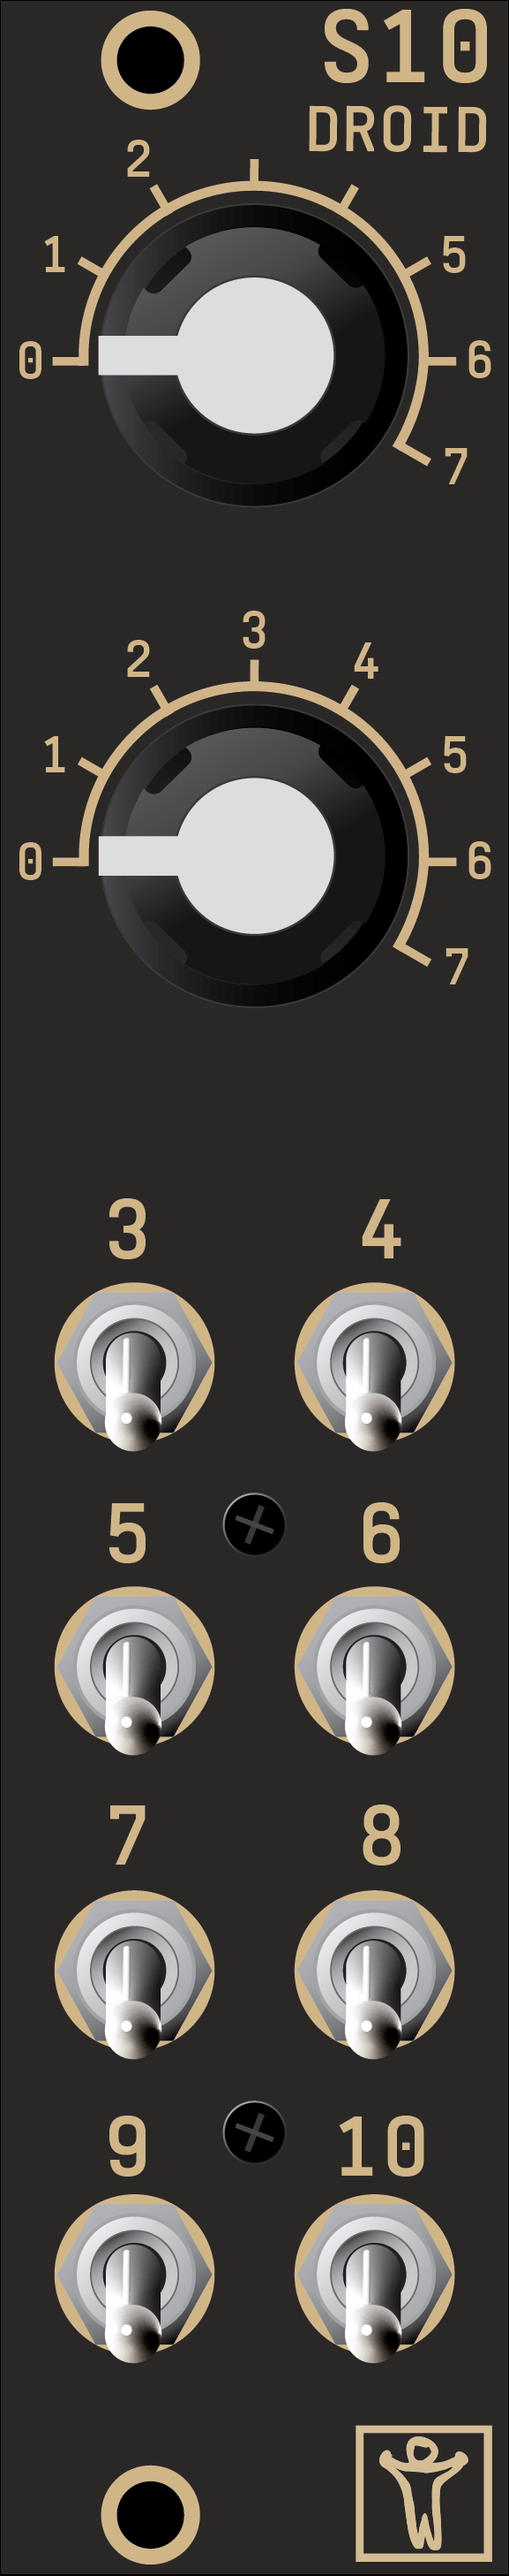
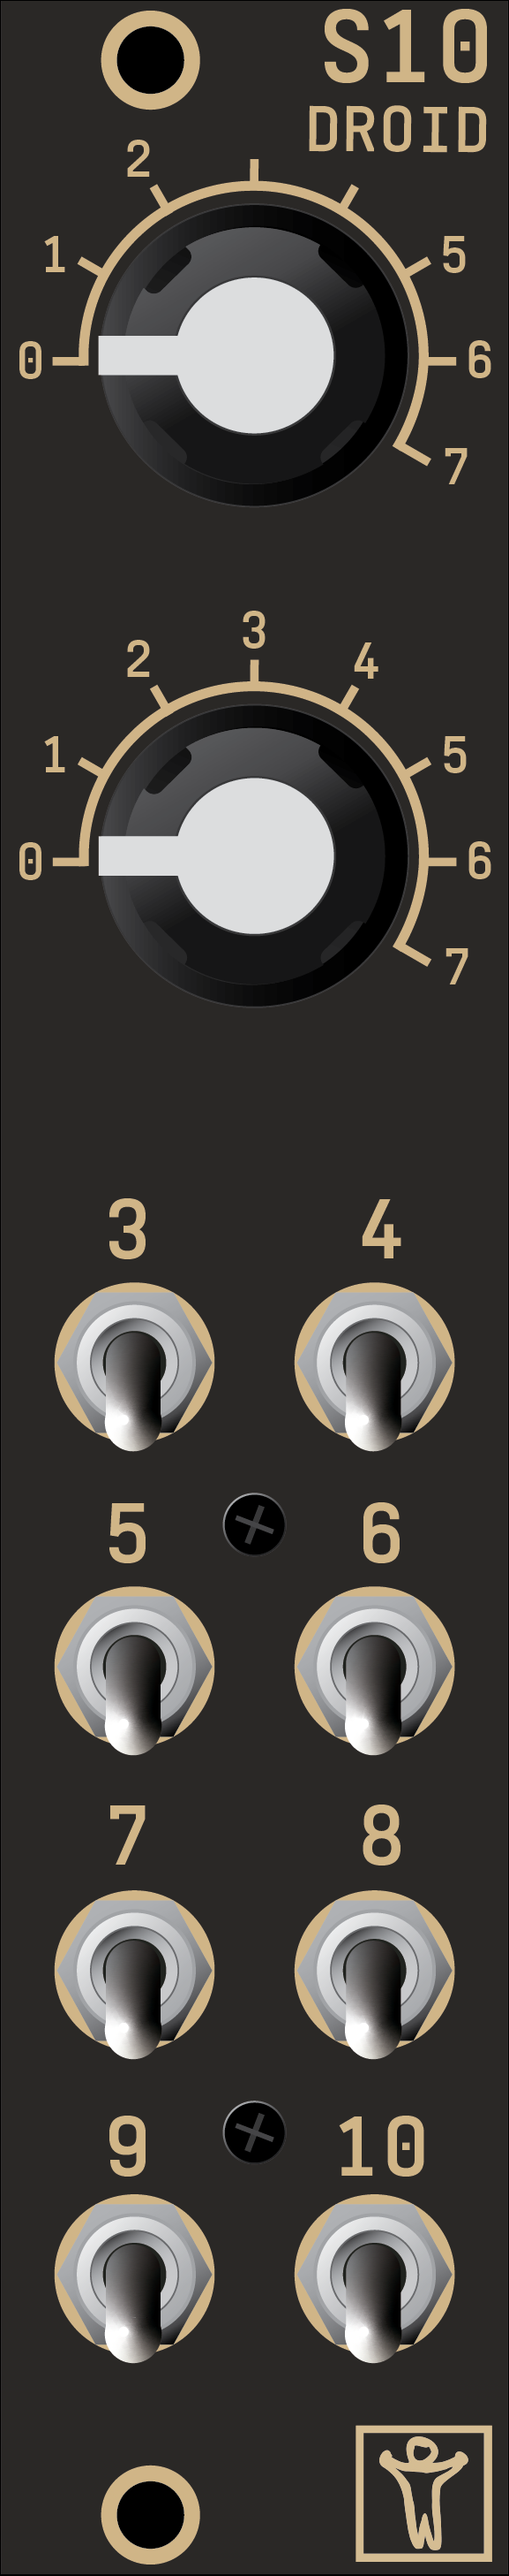
Platzierung der Register gefixt

diff --git a/droidforge/main/tuning.h b/droidforge/main/tuning.h
@@ -61,7 +61,7 @@
 // Rack view
 #define RACV_SPLITTER_HANDLE_WIDTH           12
 #define RACV_MIN_HEIGHT                      100
-#define RACV_MAX_HEIGHT                      400
+#define RACV_MAX_HEIGHT                      1000
 #define RACV_NORMAL_HEIGHT                   220
 #define RACV_PIXEL_PER_HP                    87
 #define RACV_CONTROLLER_GAP                  (2 * RACV_PIXEL_PER_HP)
@@ -73,12 +73,12 @@
 #define RACV_REGMARKER_PEN_STYLE             Qt::DotLine
 
 #define CONTROL_LARGE_POT_SIZE               4.1
-#define CONTROL_SMALL_POT_SIZE               1.4
+#define CONTROL_SMALL_POT_SIZE               1.5
 #define CONTROL_BUTTON_SIZE                  2.7
 #define CONTROL_SMALL_SWITCH_SIZE            2.0
 #define CONTROL_M4_FADER_SIZE                3.0
 #define CONTROL_M4_TOUCH_SIZE                2.2
-#define CONTROL_RGBLED_SIZE                  1.6
+#define CONTROL_RGBLED_SIZE                  2.1
 #define CONTROL_JACK_SIZE                    2.5
 #define CONTROL_EXTRA_SIZE                   7.8
 

diff --git a/droidforge/rackview/rackview.cpp b/droidforge/rackview/rackview.cpp
@@ -204,8 +204,9 @@ void RackView::askRemoveController(int controllerIndex)
 }
 void RackView::removeController(int controllerIndex)
 {
+    QString name = patch->controller(controllerIndex).toUpper();
     patch->removeController(controllerIndex);
-    patch->commit(tr("removing %1 controller").arg(patch->controller(controllerIndex).toUpper()));
+    patch->commit(tr("removing %1 controller").arg(name));
     emit patchModified();
 }
 
@@ -475,7 +476,7 @@ void RackView::openMenuOnItem(QGraphicsItem *item)
     if (item->data(DATA_INDEX_REGISTER_NAME).isValid())
         areg = item->data(DATA_INDEX_REGISTER_NAME).toString();
 
-    popupControllerContextMenu(index, item->data(DATA_INDEX_MODULE_NAME).toString(), areg);
+                        popupControllerContextMenu(index, item->data(DATA_INDEX_MODULE_NAME).toString(), areg);
 }
 
 void RackView::hoverIn(QGraphicsItem *item)

diff --git a/droidforge/modules/modulemaster.cpp b/droidforge/modules/modulemaster.cpp
@@ -20,17 +20,17 @@ QPointF ModuleMaster::registerPosition(QChar type, unsigned number) const
     int row = (number - 1) / 4;
 
     float y;
-    float x = column * 2.05 + 0.9;
+    float x = column * 2.00 + 0.98;
 
     if (type == REGISTER_INPUT || type == REGISTER_NORMALIZE)
-        y = row * 2.55 + 14.5;
+        y = row * 2.55 + 14.47;
     else if (type == REGISTER_OUTPUT)
-        y = row * 2.55 + 19.6;
+        y = row * 2.55 + 19.57;
     else if (type == REGISTER_RGB_LED) {
-        y = row * 1.8 + 5.8;
+        y = row * 1.775 + 5.88;
         if (row >= 2)
-            y += 0.3;
-        x = column * 1.85 + 1.3;
+            y += 0.37;
+        x = column * 1.775 + 1.35;
     }
     else {
         return QPointF(4.0, 8.55);

diff --git a/droidforge/modules/module.cpp b/droidforge/modules/module.cpp
@@ -34,7 +34,7 @@ void Module::createRegisterItems(QGraphicsScene *scene, int moduleIndex, int con
             continue; // This should not be clickable
         for (unsigned j=0; j<numRegisters(register_types[i]); j++) {
             QRectF rect = registerRect(type, j+1, 1).translated(pos().x(), 0);
-            auto item = scene->addRect(rect, QPen(QColor(255, 0, 0), 8));
+            auto item = scene->addRect(rect, QPen(QColor(0, 0, 0, 0), 0));
             item->setData(DATA_INDEX_DRAGGER_PRIO, 2);
             item->setData(DATA_INDEX_REGISTER_NAME, registerAtom(type, j+1).toString());
             item->setData(DATA_INDEX_MODULE_INDEX, moduleIndex);

diff --git a/droidforge/modules/modulep2b8.cpp b/droidforge/modules/modulep2b8.cpp
@@ -20,15 +20,12 @@ bool ModuleP2B8::labelNeedsBackground(QChar type, unsigned) const
 QPointF ModuleP2B8::registerPosition(QChar type, unsigned number) const
 {
     if (type == REGISTER_POT) {
-        if (number == 1)
-            return QPointF(hp()/2, 3.63);
-        else
-            return QPointF(hp()/2, 8.27);
+        return QPointF(hp()/2, 4.91 * (number - 1) + 3.50);
     }
     else  {
         unsigned column = (number-1) % 2;
         unsigned row = (number-1) / 2;
-        return QPointF(column * 2.2 + 1.35, row * 2.95 + 13.4);
+        return QPointF(column * 2.5 + 1.27, row * 2.97 + 13.43);
     }
 }
 

diff --git a/droidforge/modules/modulem4.cpp b/droidforge/modules/modulem4.cpp
@@ -11,18 +11,15 @@ unsigned ModuleM4::numRegisters(QChar type) const
 
 QPointF ModuleM4::registerPosition(QChar type, unsigned number) const
 {
-    const float faderPositions[4] = {
-        17.5,
-        9.5,
-        14.6,
-        6.1,
-    };
+    const float faderPositions[4] = { 18.25, 10.35, 14.53, 5.90, };
 
-    float x = 3.56 * (number - 1) + 1.65;
+    float x = 3.50 * (number - 1) + 1.83;
     float y;
 
-    if (type == REGISTER_POT)
+    if (type == REGISTER_POT) {
         y = faderPositions[number - 1];
+        x -= 0.1;
+    }
     else
         y = 23.0;
     return QPointF(x, y);

diff --git a/droidforge/modules/modules10.cpp b/droidforge/modules/modules10.cpp
@@ -11,14 +11,12 @@ unsigned ModuleS10::numRegisters(QChar type) const
 
 QPointF ModuleS10::registerPosition(QChar, unsigned number) const
 {
-    if (number == 1)
-        return QPointF(hp()/2, 3.63);
-    else if (number == 2)
-        return QPointF(hp()/2, 8.27);
+    if (number <= 2)
+        return QPointF(hp()/2, 4.91 * (number - 1) + 3.50);
     else  {
         unsigned column = (number-3) % 2;
         unsigned row = (number-3) / 2;
-        return QPointF(column * 2.5 + 1.25, row * 2.95 + 13.4);
+        return QPointF(column * 2.36 + 1.32, row * 2.964 + 13.35);
     }
 }
 

diff --git a/droidforge/modules/modulep10.cpp b/droidforge/modules/modulep10.cpp
@@ -11,14 +11,12 @@ unsigned ModuleP10::numRegisters(QChar type) const
 
 QPointF ModuleP10::registerPosition(QChar, unsigned number) const
 {
-    if (number == 1)
-        return QPointF(hp()/2, 3.63);
-    else if (number == 2)
-        return QPointF(hp()/2, 8.27);
+    if (number <= 2)
+        return QPointF(hp()/2, 4.91 * (number - 1) + 3.50);
     else  {
         unsigned column = (number-3) % 2;
         unsigned row = (number-3) / 2;
-        return QPointF(column * 2.6 + 1.33, row * 2.98 + 13.0);
+        return QPointF(column * 2.42 + 1.30, row * 2.94 + 12.93);
     }
 }
 

diff --git a/droidforge/modules/modulex7.cpp b/droidforge/modules/modulex7.cpp
@@ -20,14 +20,14 @@ QPointF ModuleX7::registerPosition(QChar type, unsigned number) const
     float y;
 
     if (type == REGISTER_GATE) {
-        x = column * 2.05 + 0.98;
-        y = row * 2.55 + 19.6;
+        y = (row + 2) * 2.55 + 14.47;
+        x = column * 2.00 + 0.98;
     }
     else { // REGISTER_RGB
-        y = row * 1.8 + 5.8;
+        y = row * 1.775 + 5.88;
         if (row >= 2)
-            y += 0.3;
-        x = column * 1.85 + 1.1;
+            y += 0.37;
+        x = column * 1.775 + 1.15;
     }
     return QPointF(x, y);
 

diff --git a/droidforge/modules/moduleg8.cpp b/droidforge/modules/moduleg8.cpp
@@ -26,14 +26,14 @@ QPointF ModuleG8::registerPosition(QChar type, unsigned number) const
     float y;
 
     if (type == REGISTER_GATE) {
-        y = row * 2.55 + 14.5;
-        x = column * 2.05 + 0.9;
+        y = row * 2.55 + 14.47;
+        x = column * 2.00 + 0.98;
     }
     else { // REGISTER_RGB_LED
-        y = row * 1.8 + 5.8;
+        y = row * 1.775 + 5.88;
         if (row >= 2)
-            y += 0.3;
-        x = column * 1.85 + 1.2;
+            y += 0.37;
+        x = column * 1.775 + 1.15;
     }
     return QPointF(x, y);
 }

diff --git a/droidforge/modules/modulep4b2.cpp b/droidforge/modules/modulep4b2.cpp
@@ -19,10 +19,11 @@ bool ModuleP4B2::labelNeedsBackground(QChar type, unsigned) const
 QPointF ModuleP4B2::registerPosition(QChar type, unsigned number) const
 {
     if (type == REGISTER_POT)
-        return QPointF(hp()/2, 4.71 * (number - 1) + 3.63);
+        return QPointF(hp()/2, 4.91 * (number - 1) + 3.50);
     else  {
         unsigned column = (number-1) % 2;
-        return QPointF(column * 2.2 + 1.35, 8.85 + 13.4);
+        unsigned row = 3;
+        return QPointF(column * 2.5 + 1.27, row * 2.97 + 13.43);
     }
 
 }

diff --git a/droidforge/modules/moduleb32.cpp b/droidforge/modules/moduleb32.cpp
@@ -14,8 +14,8 @@ QPointF ModuleB32::registerPosition(QChar, unsigned number) const
    unsigned row = (number - 1) / 4;
    unsigned column = (number - 1) % 4;
 
-   return QPointF(column * 2.55 + 1.20,
-                  row * 2.75 + 3.0);
+   return QPointF(column * 2.50 + 1.258,
+                  row * 2.767 + 2.99);
 }
 
 float ModuleB32::registerSize(QChar, unsigned) const
